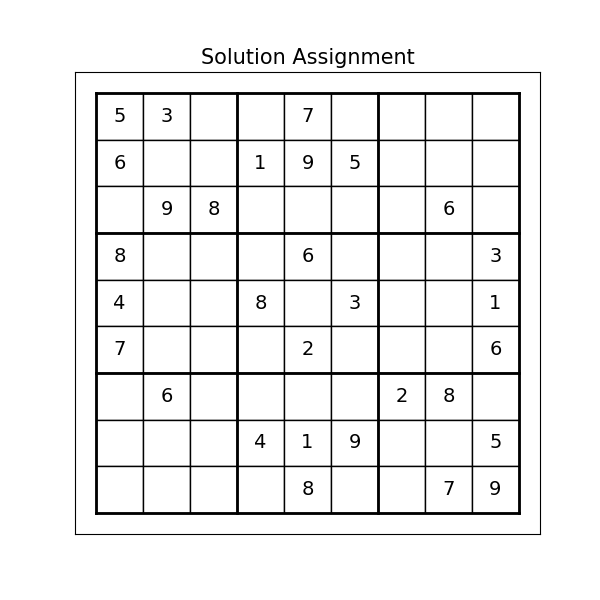
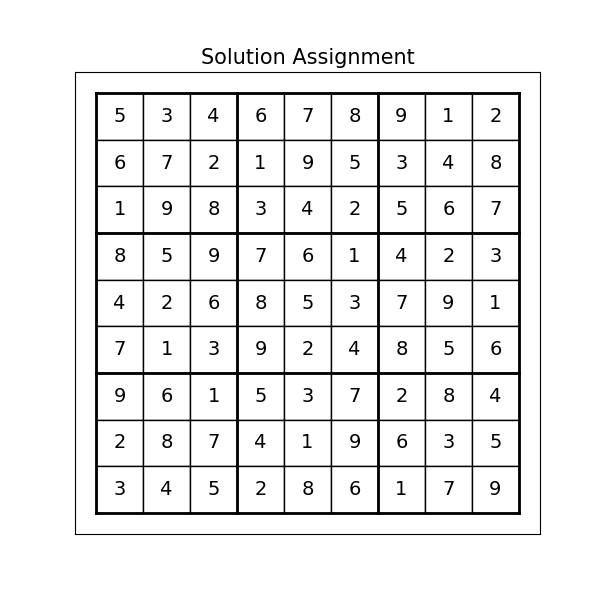
work on sudoku n=3

diff --git a/demonstrations/sudoku/examples/n=3.py b/demonstrations/sudoku/examples/n=3.py
@@ -54,7 +54,7 @@ caNetwork = rep.get_assignment_as_CANetwork(num=num, startAssignment=evidenceDic
 #     meanParamDict=dict()
 # )
 propagator = sol.get_forward_mp_inferer(num, evidenceDict)
-propagator.propagate_until_convergence(evidenceDict.keys(), maxMessageCount=300)
+propagator.propagate_until_convergence(evidenceDict.keys(), maxMessageCount=30000)
 
 solution_array = vis.evidence_to_array(sol.meanParams_to_evidence(propagator.meanParamDict), num=num)
 # # Already Known

diff --git a/demonstrations/sudoku/visualization.py b/demonstrations/sudoku/visualization.py
@@ -32,7 +32,7 @@ def visualize_sudoku(sudokuArray, number=3, label=""):
 
     plt.title(label, fontsize=15)
     plt.savefig(f"demonstrations/sudoku/examples/n={number}_sudoku_{label.replace(' ', '_')}.png")
-    plt.show()
+    # plt.show()
 
 
 def evidence_to_array(evidenceDict, num=3):
